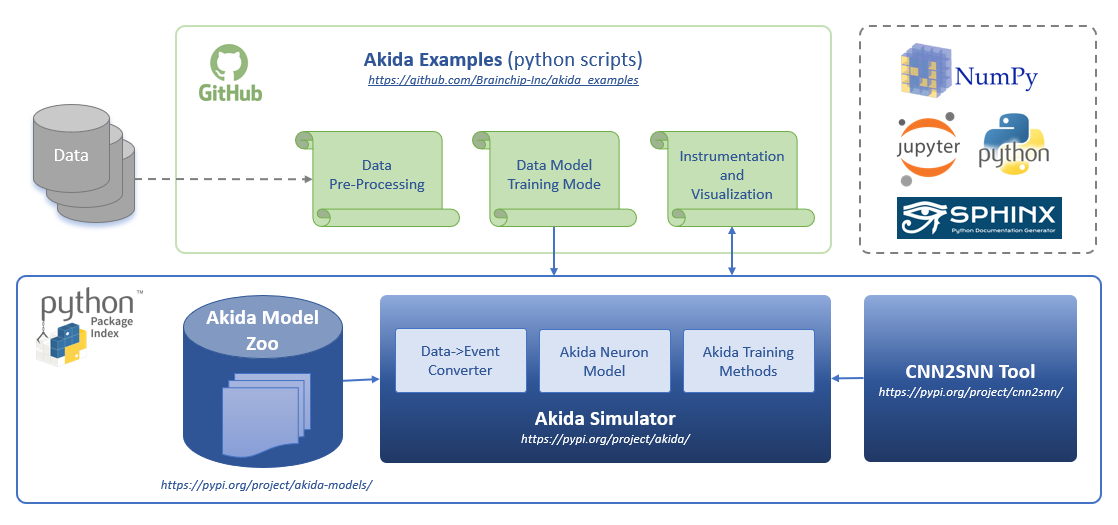
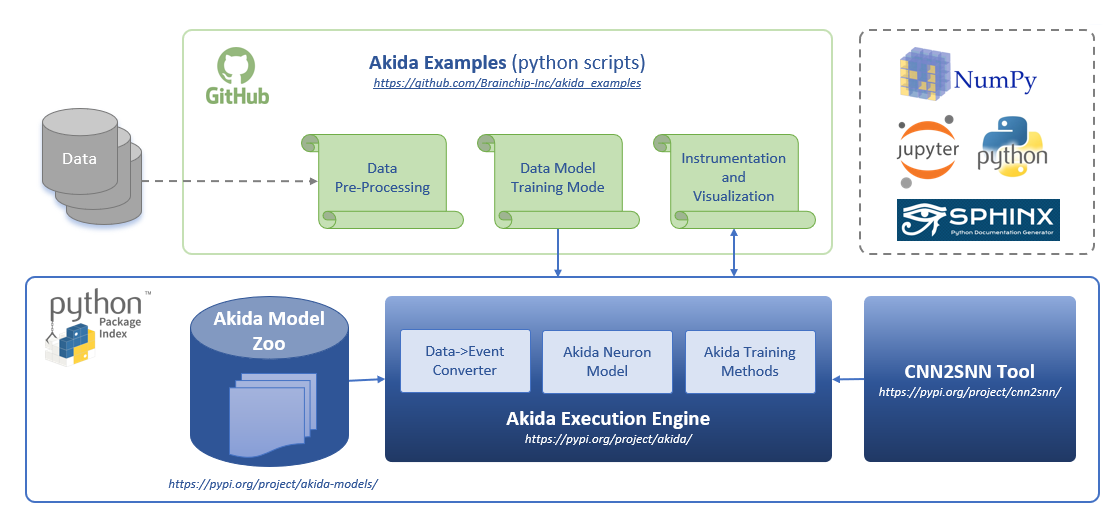
chore: documentation overview update
Rework overview/getting started sections.

diff --git a/doc/index.rst b/doc/index.rst
@@ -49,21 +49,63 @@ other neural networks and SNN implementations. These are:
 * On-chip few-shot training
 * On-chip unsupervised learning
 
-The Akida Execution Engine
---------------------------
 
-The Akida Execution Engine `AEE <user_guide/aee.html>`__ is an interface
-for the Akida processor. The AEE includes a python wrapper to access the Akida
-Core API, the Akida Runtime, an Hardware Abstraction Layer (HAL) and the chip
-simulator (see *Figure 2*\ ). It enables the creation, training, and running
-inference of neural networks targeting the Akida chip.
+The Akida Development Environment
+---------------------------------
+
+The Akida Development Environment (ADE) relies on a high-level neural networks
+API, written in Python, and largely inspired by the `Keras API
+<https://keras.io>`_.
+
+The core data structure used by the Akida Execution Engine (AEE) is a neural
+network **model**\ , which itself is a linear stack of **layers**.
+
+The ADE leverages `TensorFlow <https://www.tensorflow.org/>`_ framework and
+`PyPI <https://pypi.org/>`_ for BrainChip tools installation.
+The major difference with other machine learning frameworks is that the data
+exchanged between layers is not the usual **dense** multidimensional arrays,
+but sets of spatially organized events that can be modelled as **sparse**
+multidimensional arrays.
+
+Throughout this documentation, those events will often be referred as "spikes",
+due to their close similarity with the signals exchanged by biological neurons.
+
+.. note::
+    Although the preferred input of an Akida model is a set of spikes, dense
+    inputs are also supported through dedicated adaptation layers that convert
+    the dense input data frames into spikes.
+
+.. figure:: img/ade.png
+   :target: _images/ade.png
+   :alt: Brainchip
+   :align: center
+
+   Figure 2. Akida Development Environment
+
+The Akida Development Environment comprises three main python packages:
+
+* the `Akida Execution Engine (AEE) <https://pypi.org/project/akida>`_ is an
+  interface to the Brainchip Akida Neuromorphic System-on-Chip (NSoC). To allow
+  the development of Akida models without an actual Akida hardware, it includes
+  a runtime, an Hardware Abstraction Layer (HAL) and a software backend that
+  simulates the Akida NSoC (see *Figure 3*\ ).
 
 .. figure:: img/AEE.png
    :target: _images/AEE.png
    :alt: Brainchip
    :align: center
 
-   Figure 2. Akida Execution Engine
+   Figure 3. Akida Execution Engine
+
+* the `CNN2SNN tool <https://pypi.org/project/cnn2snn>`_ provides means to
+  convert Convolutional Neural Networks (CNN) that were trained using Deep
+  Learning methods to a low-latency and low-power Spiking Neural Network (SNN)
+  or use with the Akida Execution Engine.
+
+* the `Akida model zoo <https://pypi.org/project/akida-models>`_ contains
+  pre-created spiking neural network (SNN) models built with the Akida
+  sequential API and the CNN2SNN tool using quantized Keras models.
+
 
 The Akida examples
 ------------------

diff --git a/doc/user_guide/getting_started.rst b/doc/user_guide/getting_started.rst
@@ -2,39 +2,8 @@
 Getting started
 ===============
 
-The Akida Development Environment relies on a high-level neural networks API,
-written in Python, and largely inspired by the `Keras API <https://keras.io>`_.
-
-The core data structure used by the Akida Execution Engine is a neural network
-**model**\ , which itself is a linear stack of **layers**.
-
-The major difference with other machine learning frameworks is that the data
-exchanged between layers is not the usual **dense** multidimensional arrays,
-but sets of spatially organized events that can be modelled as **sparse**
-multidimensional arrays.
-
-Throughout this documentation, those events will often be referred as "spikes",
-due to their close similarity with the signals exchanged by biological neurons.
-
-.. note::
-    Although the preferred input of an Akida model is a set of spikes, dense
-    inputs are also supported through dedicated adaptation layers that convert
-    the dense input data frames into spikes.
-
-The Akida Development Environment comprises three main python packages:
-
-* the `Akida Simulator <https://pypi.org/project/akida>`_ is an interface to the Brainchip Akida Neuromorphic System-on-Chip (NSoC). To allow the development of Akida models without an actual Akida hardware, it includes a software backend that simulates the Akida NSoC.
-
-* the `CNN2SNN tool <https://pypi.org/project/cnn2snn>`_ provides means to convert Convolutional Neural Networks (CNN) that were trained using Deep Learning methods to a low-latency and low-power Spiking Neural Network (SNN) for use with the Akida Execution Engine.
-
-* the `Akida model zoo <https://pypi.org/project/akida-models>`_ contains pre-created spiking neural network (SNN) models built with the Akida sequential API and the CNN2SNN tool using quantized Keras models.
-
-.. figure:: ../img/ade.png
-   :target: ../_images/ade.png
-   :alt: Brainchip
-   :align: center
-
-   Figure 1. Akida Development Environment
+The Akida Development Tools can easily be installed using `pip
+<https://pypi.org/project/pip/>`_ python installer (see `Installation <../installation.html>`_).
 
 For beginners
 -------------
